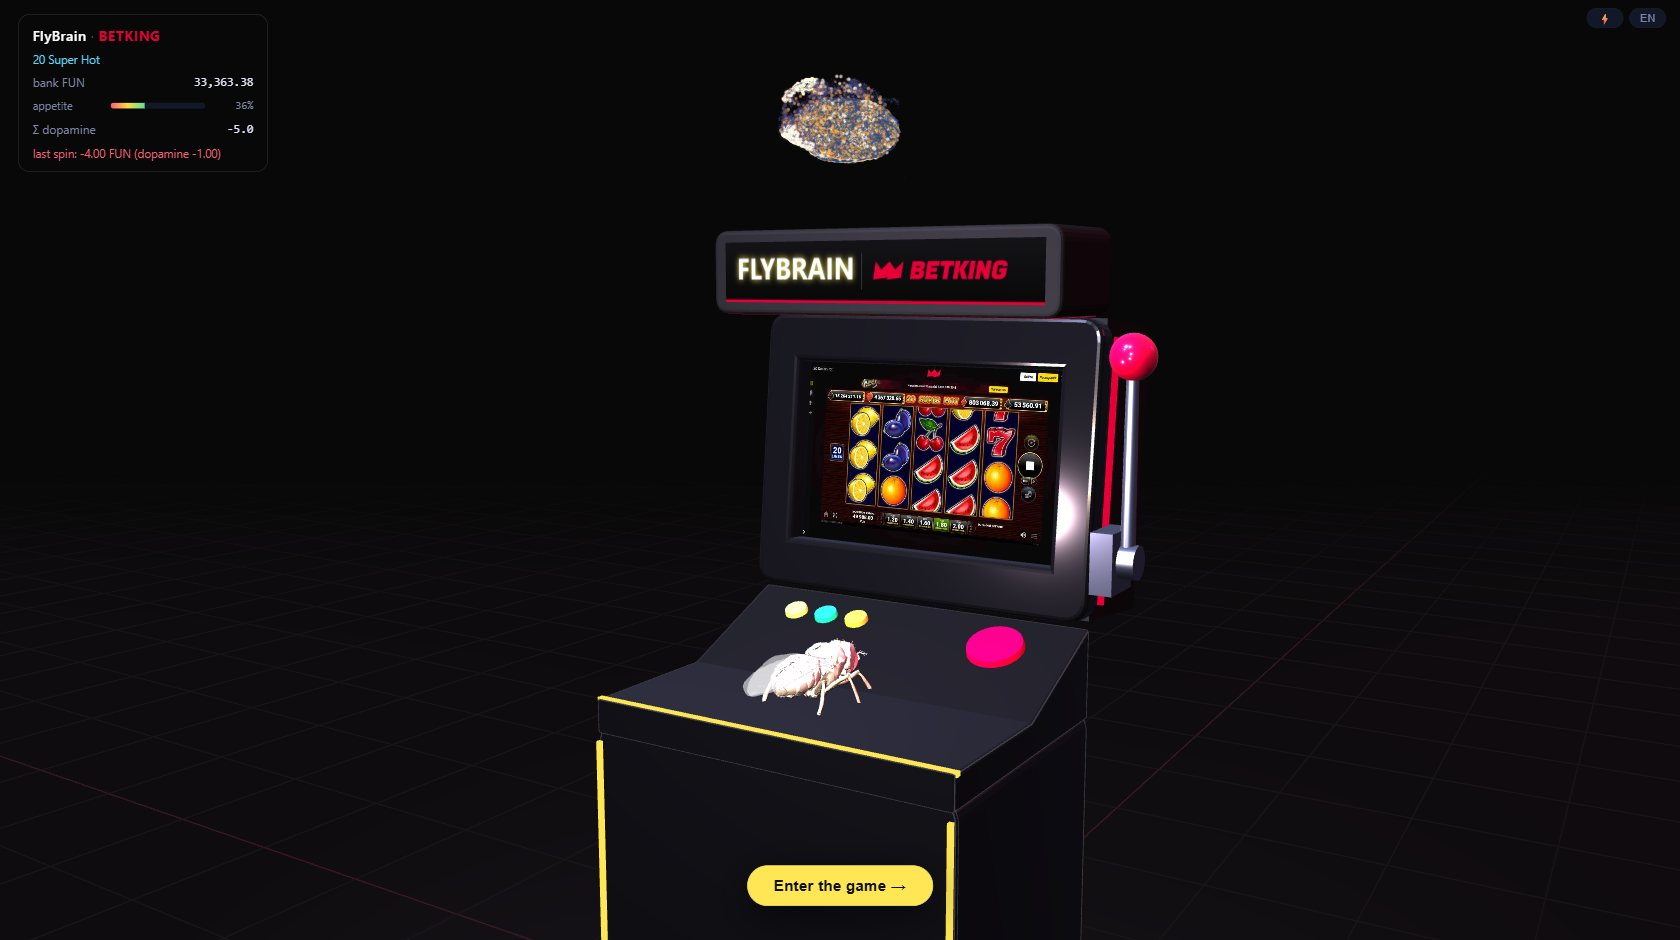
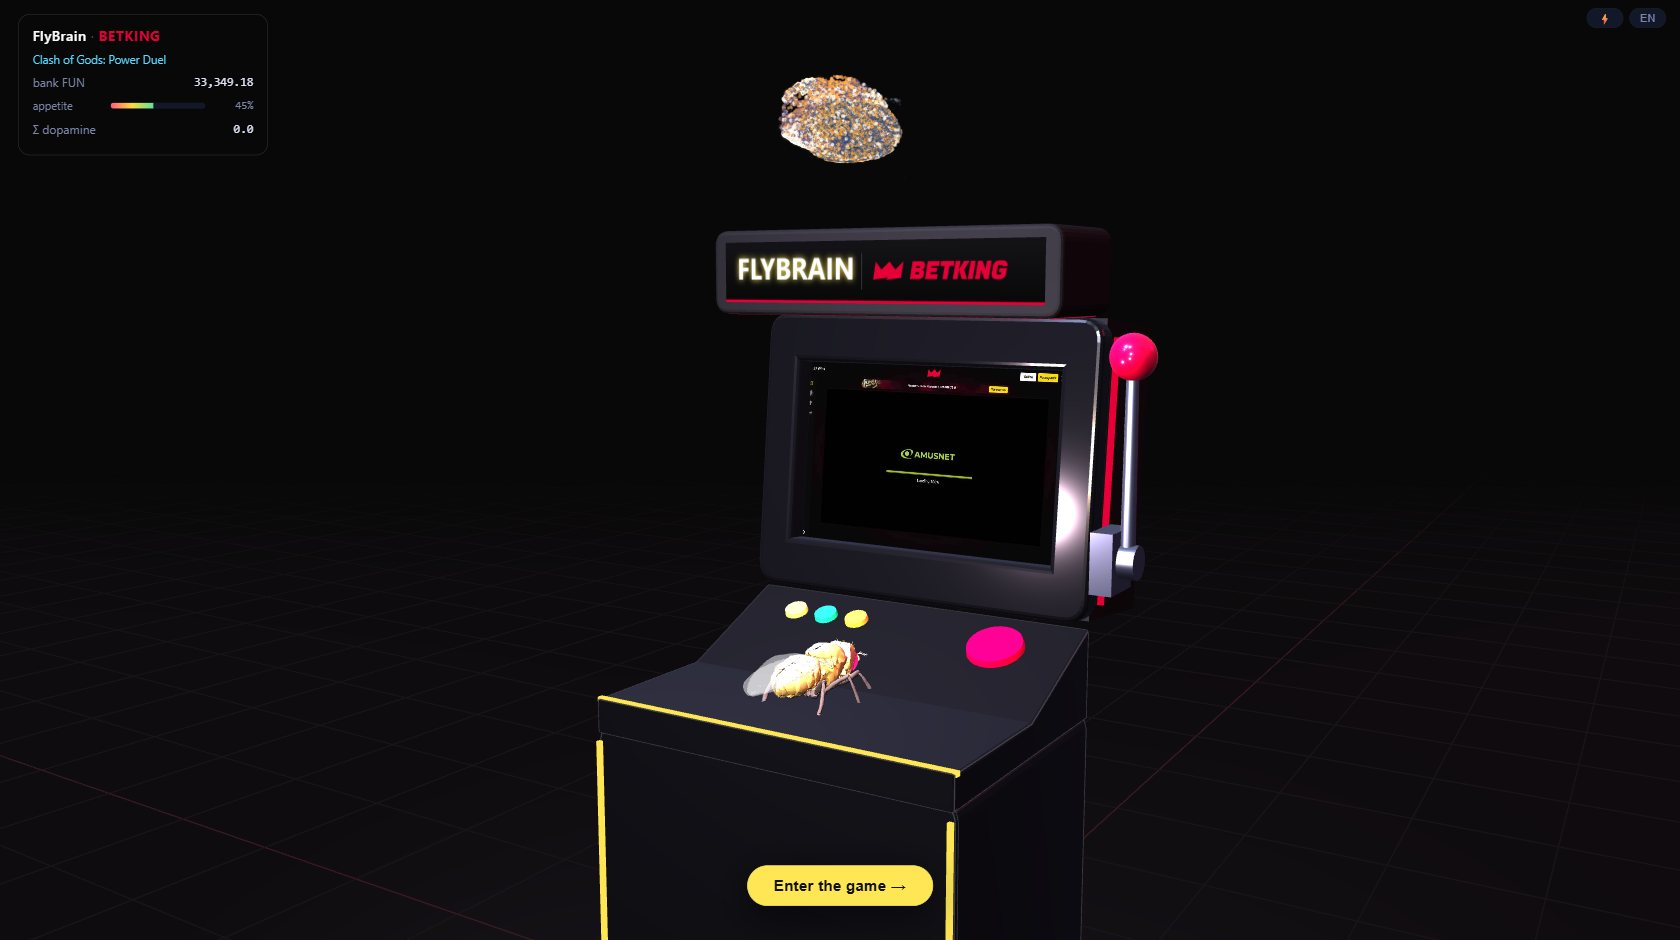
fly skin 'gold' (default): mascot look in the site's palette - toy-like golden body, red eyes, dark legs, cool-tinted wings; cream/snow/pearl kept behind ?skin=

diff --git a/viz/index.html b/viz/index.html
@@ -641,7 +641,7 @@ const MAT = {
   thorax: new THREE.MeshPhysicalMaterial({ color: 0xece2d4, roughness: 0.55, metalness: 0.0, clearcoat: 0.3, clearcoatRoughness: 0.45, sheen: new THREE.Color(0x6a5a4a), envMap, envMapIntensity: 0.4, side: THREE.DoubleSide }),
   body:   new THREE.MeshPhysicalMaterial({ color: 0xf4ece2, roughness: 0.5, metalness: 0.0, clearcoat: 0.35, clearcoatRoughness: 0.4, sheen: new THREE.Color(0x6a5a4a), envMap, envMapIntensity: 0.4, side: THREE.DoubleSide }),
   eyes:   new THREE.MeshPhysicalMaterial({ color: 0xe0262f, emissive: 0x3a080b, roughness: 0.15, metalness: 0.0, clearcoat: 1.0, clearcoatRoughness: 0.06, envMap, envMapIntensity: 1.3 }),
-  wing:   new THREE.MeshPhysicalMaterial({ color: 0xe6f4ff, transparent: true, opacity: 0.34, roughness: 0.1, metalness: 0.1, side: THREE.DoubleSide, depthWrite: false, envMap, envMapIntensity: 1.3 }),
+  wing:   new THREE.MeshPhysicalMaterial({ color: 0xdff0ff, transparent: true, opacity: 0.3, roughness: 0.1, metalness: 0.1, side: THREE.DoubleSide, depthWrite: false, envMap, envMapIntensity: 1.3 }),
   wingGhost: new THREE.MeshBasicMaterial({ color: 0xdfeeff, transparent: true, opacity: 0.09, side: THREE.DoubleSide, depthWrite: false }),
   legs:   new THREE.MeshStandardMaterial({ color: 0x8d7a66, roughness: 0.85, metalness: 0.0, side: THREE.DoubleSide }),
 };
@@ -674,15 +674,19 @@ function smoothGeometry(g) {
   const idx = g.index ? Array.from(g.index.array, i => index[i]) : Array.from(index);
   const ng = new THREE.BufferGeometry(); ng.setAttribute('position', new THREE.Float32BufferAttribute(out, 3)); ng.setIndex(idx); ng.computeVertexNormals(); return ng;
 }
+// skins: 'gold' (default) is the mascot look in the site's palette - toy-like golden body, red eyes, dark legs;
+// it stands out against the black cabinet and the colourful games without the glare of pure white
 const SKINS = {
+  gold:  { thorax: 0xd9a93c, body: 0xf0c452, legs: 0x3a3236, fuzz: 0xfff0b0, stripes: 0.62, eyes: 0xe60037, rough: 0.42, coat: 0.6 },
   cream: { thorax: 0xece2d4, body: 0xf4ece2, legs: 0x8d7a66, fuzz: 0xfff4e6, stripes: 0.8, eyes: 0xe0262f },
   snow:  { thorax: 0xf2eaea, body: 0xfaf3f0, legs: 0x9a8c86, fuzz: 0xffe4e4, stripes: 0.88, eyes: 0xe8303a },
   pearl: { thorax: 0xe6e9ee, body: 0xf3f5f8, legs: 0x8a8f99, fuzz: 0xffffff, stripes: 0.85, eyes: 0xd9262e },
 };
-let skinName = 'cream'; try { skinName = new URLSearchParams(location.search).get('skin') || localStorage.getItem('fly.skin') || 'cream'; } catch (e) {}
+let skinName = 'gold'; try { skinName = new URLSearchParams(location.search).get('skin') || localStorage.getItem('fly.skin') || 'gold'; } catch (e) {}
 function applySkin(name) {
-  const k = SKINS[name] || SKINS.cream; skinName = name; try { localStorage.setItem('fly.skin', name); } catch (e) {}
+  const k = SKINS[name] || SKINS.gold; skinName = name; try { localStorage.setItem('fly.skin', name); } catch (e) {}
   MAT.thorax.color.set(k.thorax); MAT.body.color.set(k.body); MAT.legs.color.set(k.legs); MAT.eyes.color.set(k.eyes);
+  for (const m of [MAT.thorax, MAT.body]) { m.roughness = k.rough ?? 0.55; m.clearcoat = k.coat ?? 0.3; m.envMapIntensity = k.coat ? 0.55 : 0.4; }
   for (const m of [MAT.thorax, MAT.body, MAT.legs]) if (m.userData.shader) { m.userData.shader.uniforms.uFuzz.value.set(k.fuzz); if (m !== MAT.legs) m.userData.shader.uniforms.uDark.value = k.stripes; }
 }
 new THREE.GLTFLoader().load('/assets/drosophila.glb', gltf => {
